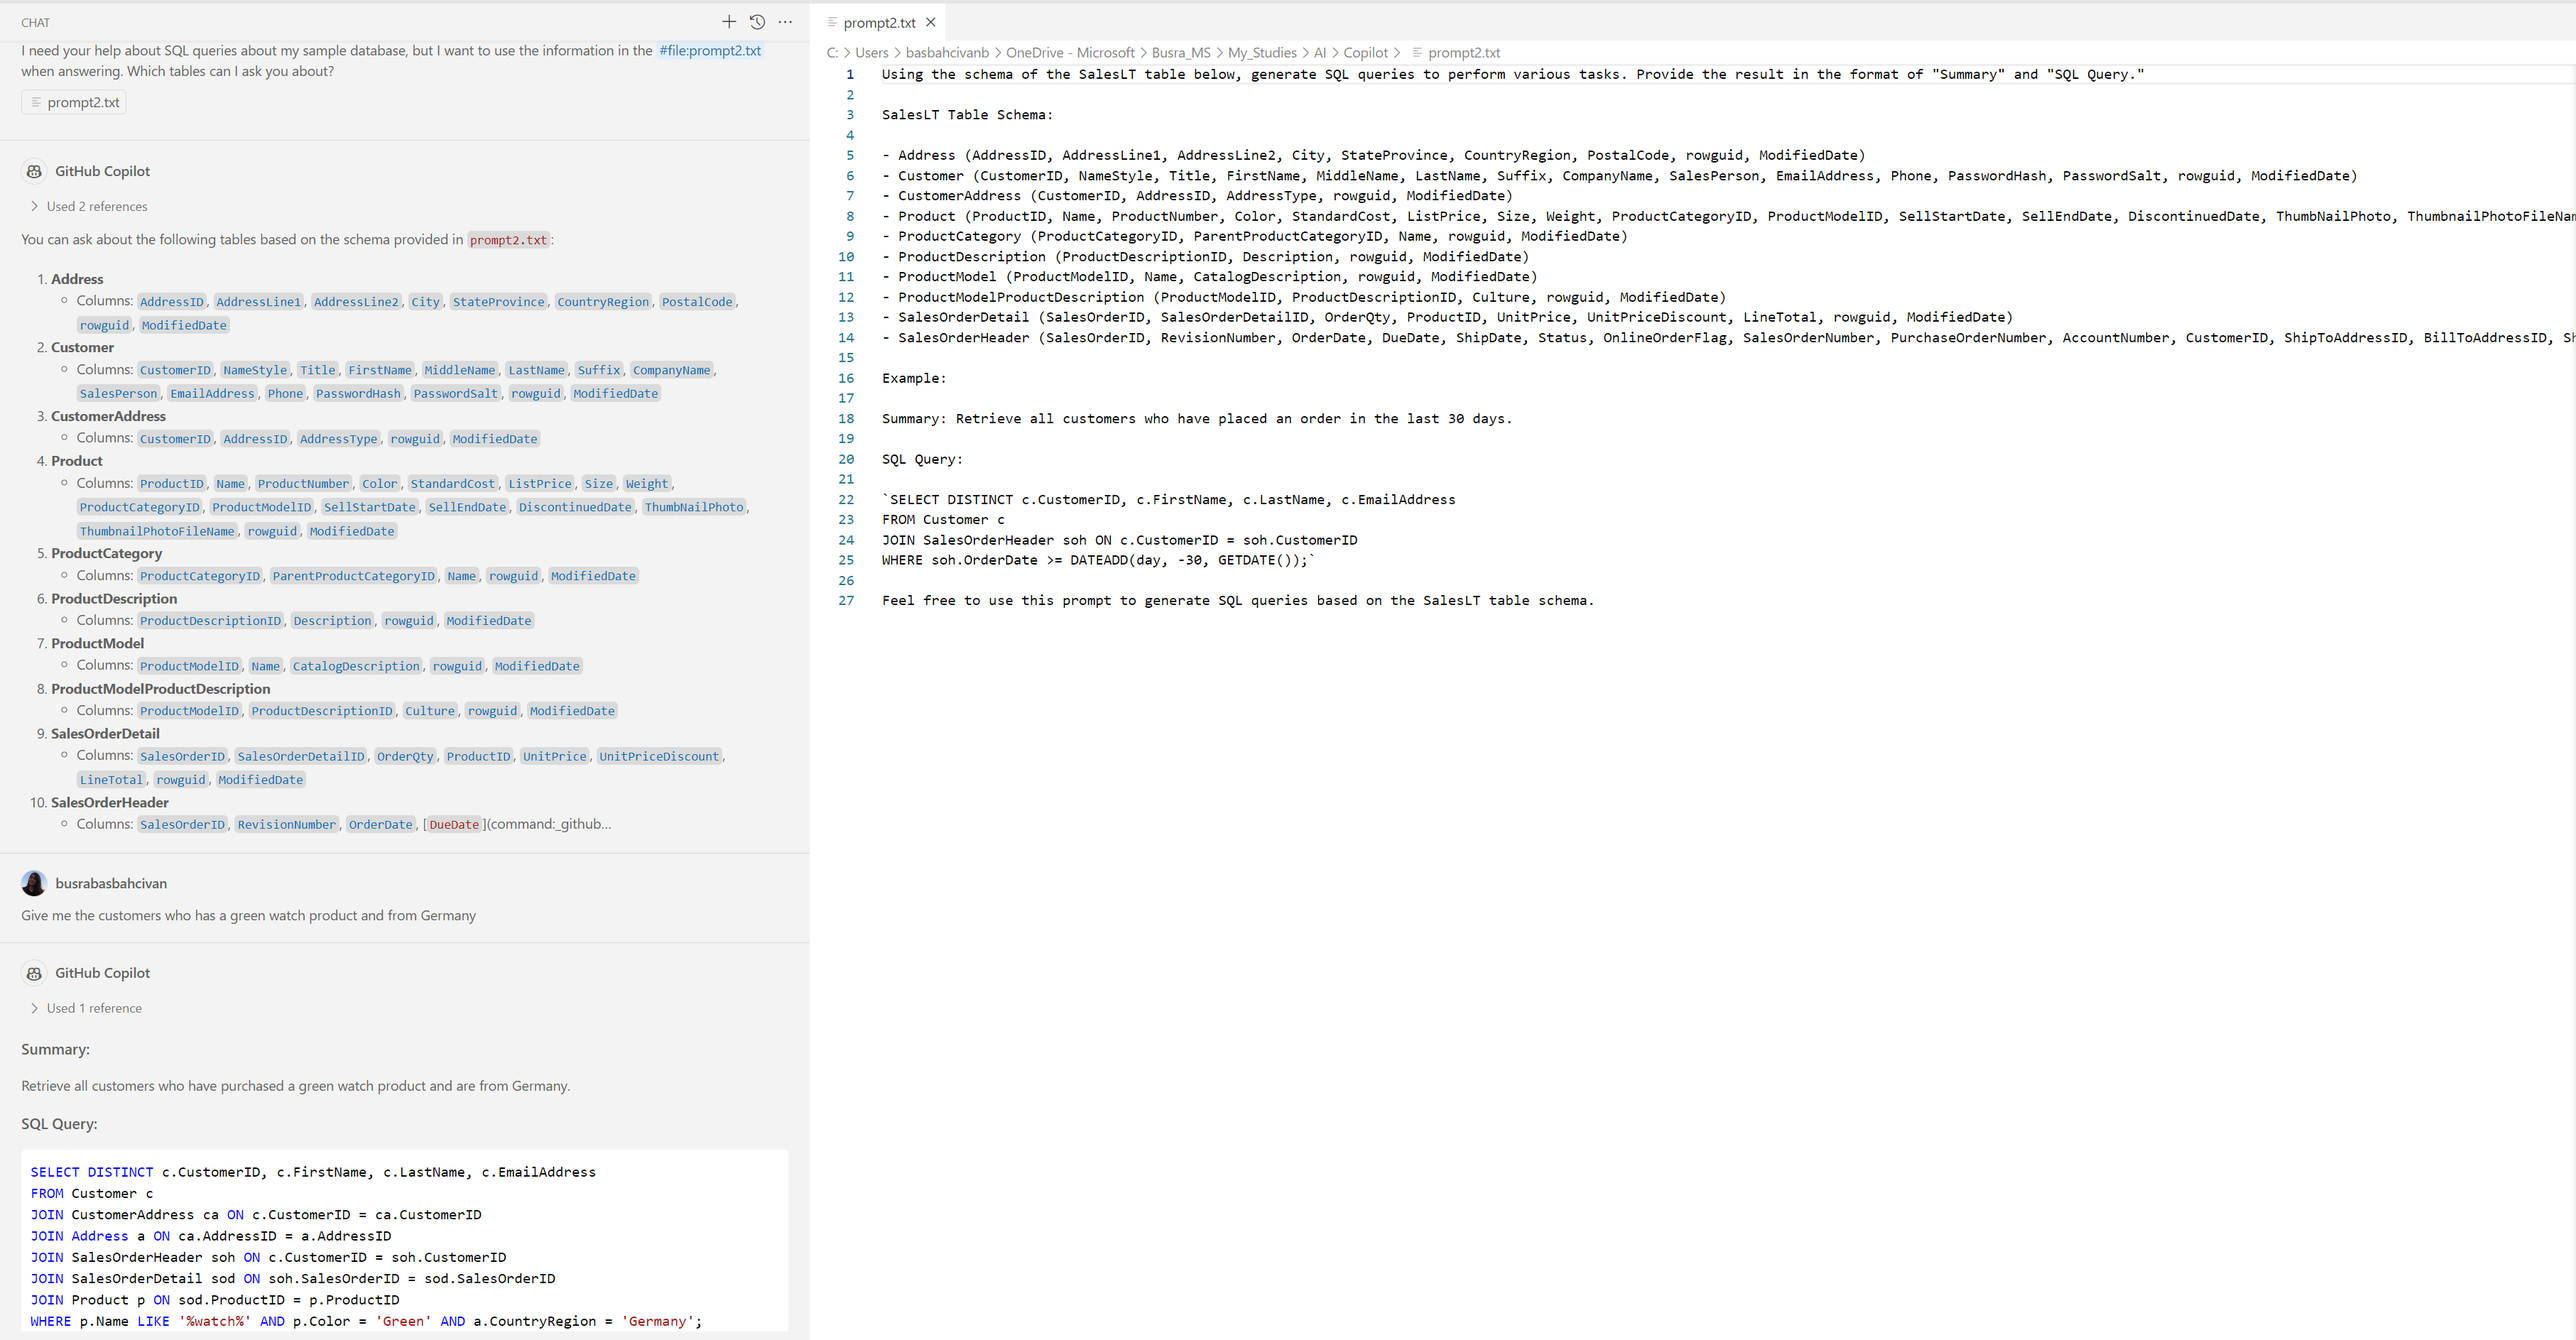
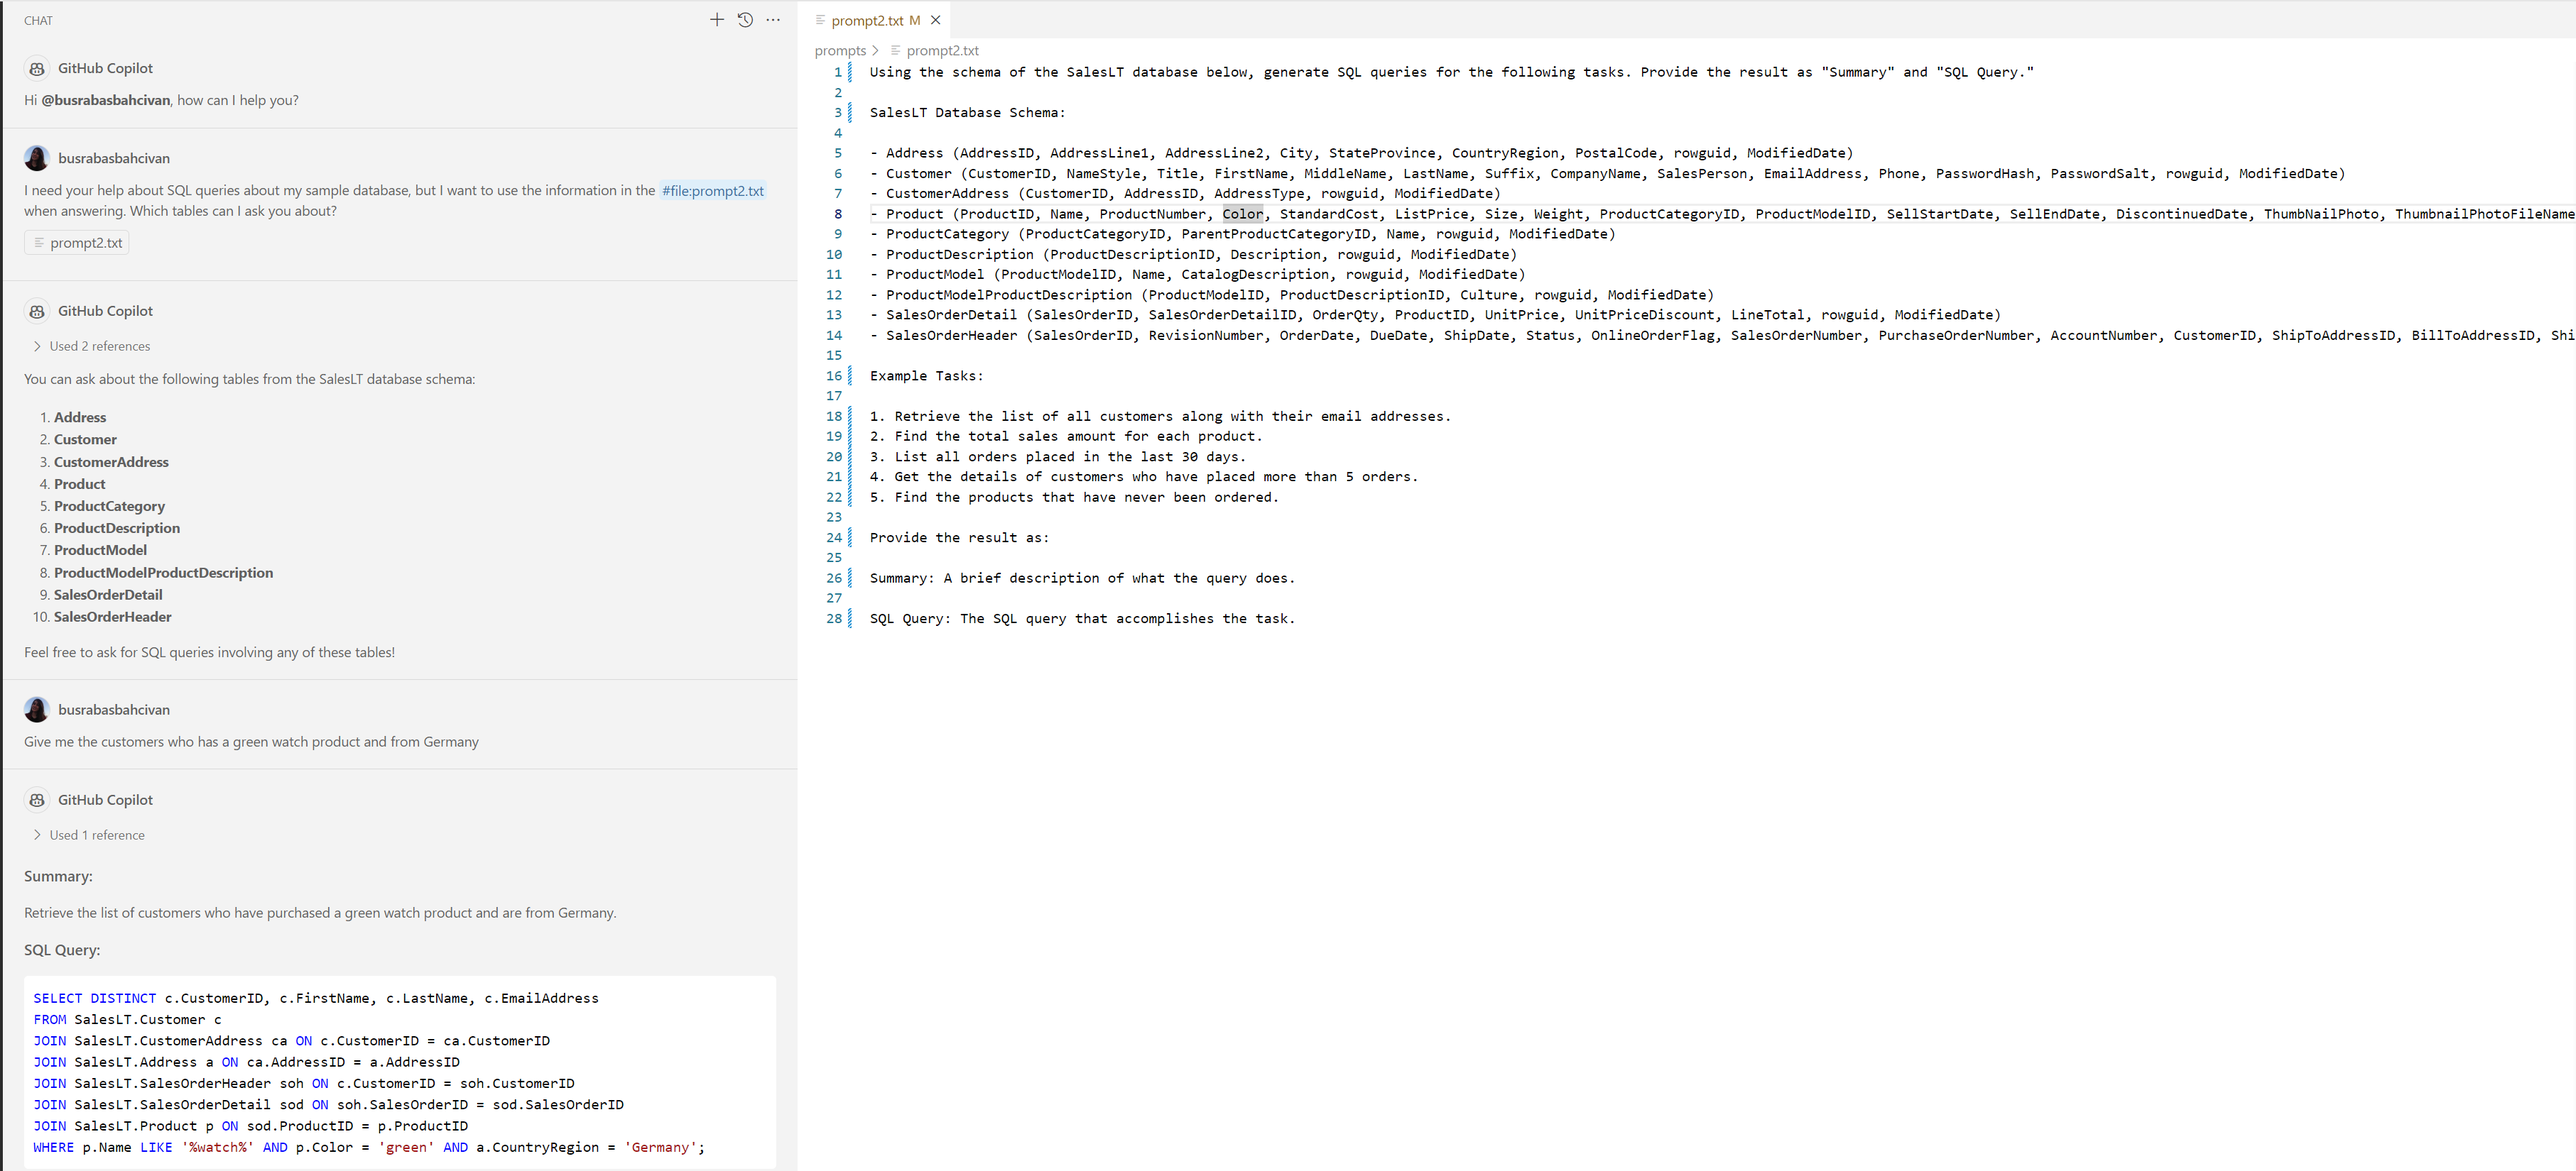
editted

Changed region(s): [[0.0, 0.0, 1.0, 0.9891], [0.0, 0.0309, 0.2804, 0.0927], [0.4362, 0.5255, 0.4673, 0.5564]]

diff --git a/docs/SQLChatter_GitHubCopilot.md b/docs/SQLChatter_GitHubCopilot.md
@@ -30,9 +30,9 @@ You can follow the step by step instructions to complete this excercise:
 
 ### 1. Generating Prompt:
 
-* Create a prompt that instructs Copilot to generate SQL queries using the schema of the SalesLT table below:
+* Create a prompt that instructs Copilot to generate SQL queries using the schema of the SalesLT database below:
 
-   **SalesLT Table**:
+   **SalesLT Database**:
    ```
    - Address (AddressID, AddressLine1, AddressLine2, City, StateProvince, CountryRegion, PostalCode, rowguid, ModifiedDate)
    
@@ -59,9 +59,9 @@ You can follow the step by step instructions to complete this excercise:
 Here is an example:
 
     ```
-    I would like you to create a prompt that asks to generate SQL queries using the schema of the SalesLT table below, and to provide the result as "Summary" and "SQL Query."
+    I would like you to create a prompt that asks to generate SQL queries using the schema of the SalesLT database below, and to provide the result as "Summary" and "SQL Query."
 
-    I'm providing the SalesLT table schema below:
+    I'm providing the SalesLT database schema below:
 
     - Address (AddressID, AddressLine1, AddressLine2, City, StateProvince, CountryRegion, PostalCode, rowguid, ModifiedDate)
     - Customer (CustomerID, NameStyle, Title, FirstName, MiddleName, LastName, Suffix, CompanyName, SalesPerson, EmailAddress, Phone, PasswordHash, PasswordSalt, rowguid, ModifiedDate)
@@ -206,3 +206,12 @@ Here is an example:
 
      ![ReviewAndCreate](./SQLChatterImages/ReviewAndCreate.png)
 
+ * Now, you have a database with sample data that has the same schema structure as the SalesLT database you provided in the prompt.
+
+### 3. Coding the Frontend with Copilot:
+
+* Create a prompt that instructs Copilot to generate SQL queries using the schema of the SalesLT database below:
+
+I' d like to have a web page including a textbox for my inputs and near the textbox there should be a button to submit my question. This page will get my questions and give the answers in the bottom. For example I can ask "How are you?" and it will give me "I am fine". Please write me the code of this web page in Blazor. I will use VS Code for IDE.
+
+![Blazor](./CopilotImages/Blazor.png)
